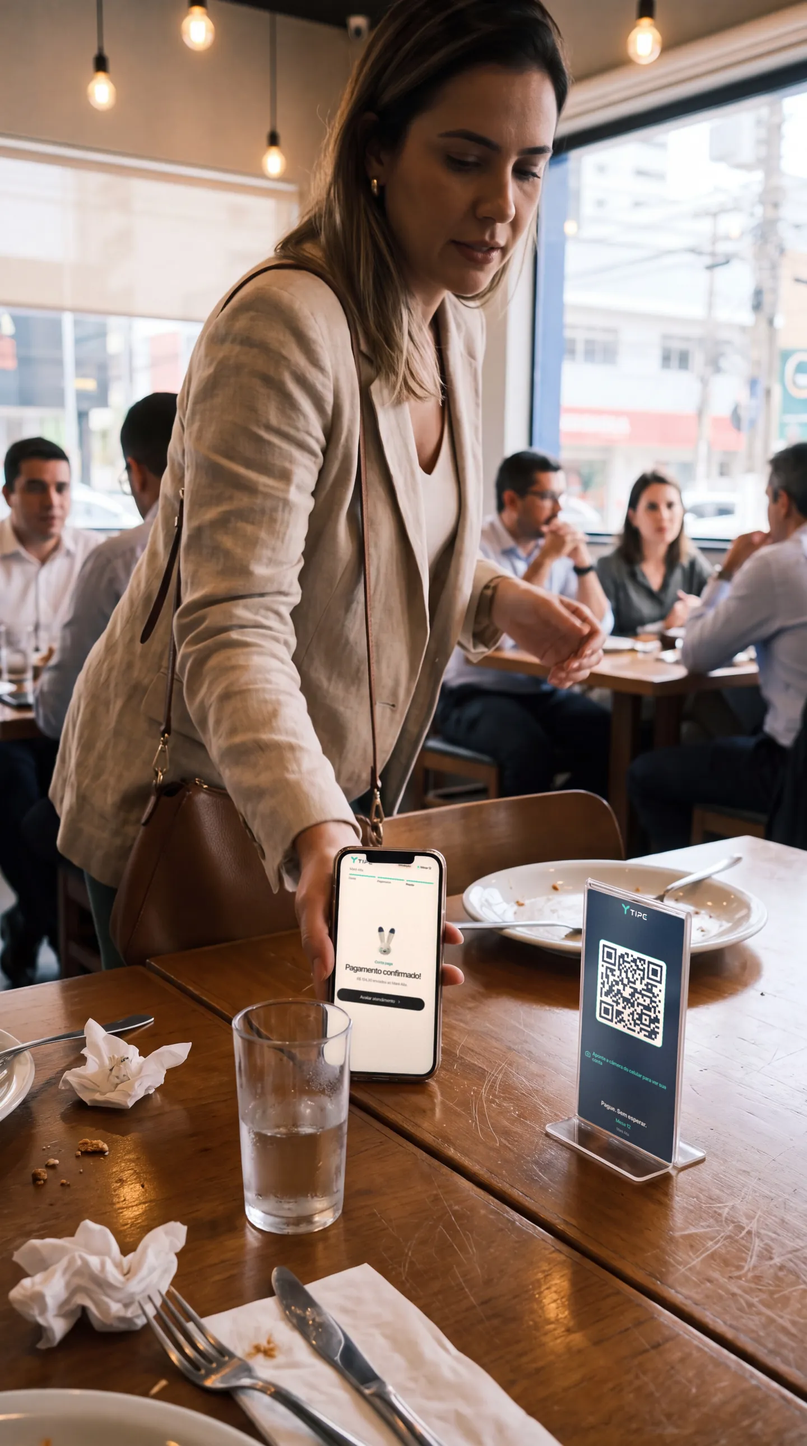
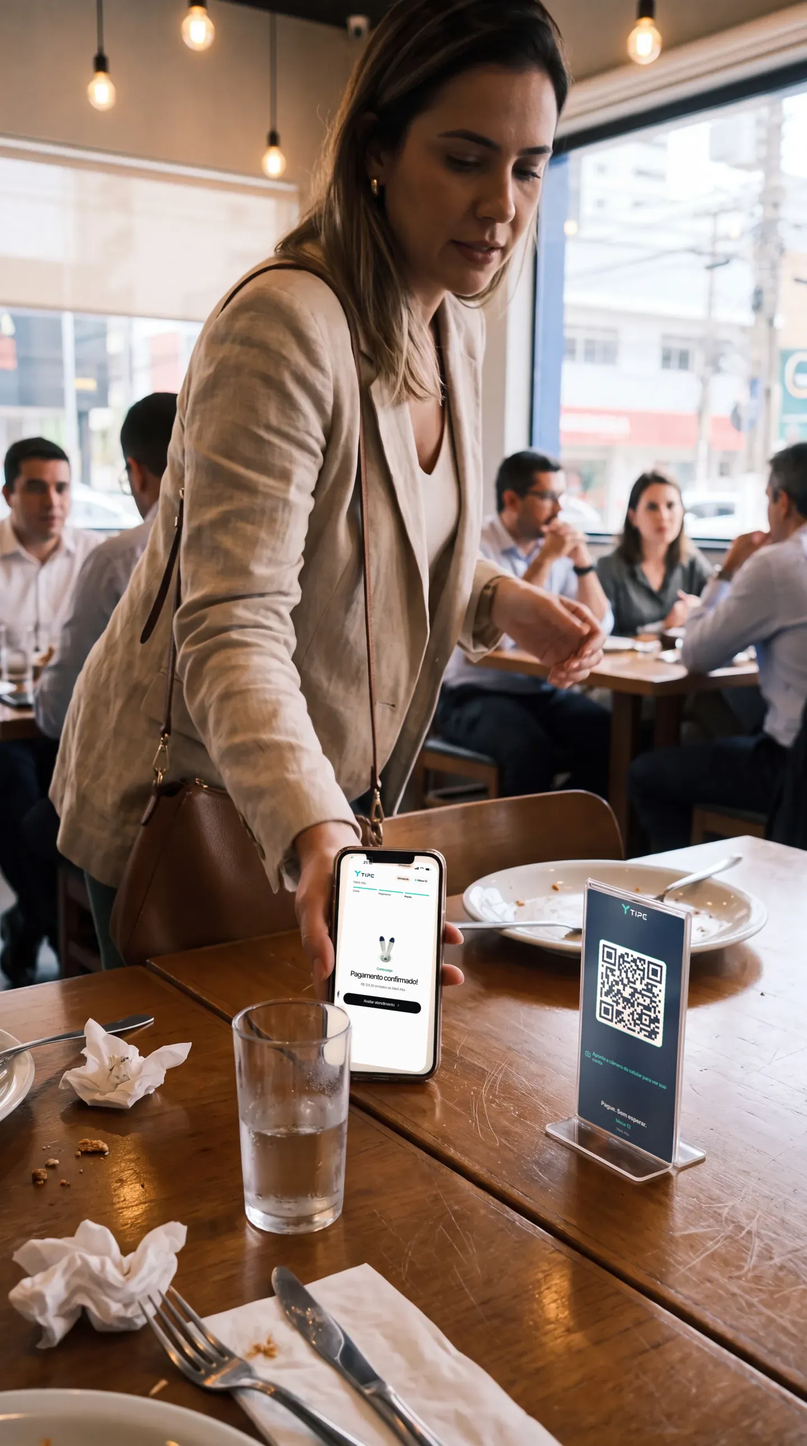
fix(design): barra de status nas fotos de cena e ícones proporcionais no Firefox
- Ícones de sinal, Wi-Fi e bateria com largura e altura explícitas (Firefox
  esticava o SVG e desenhava os glifos gigantes)
- Telas das fotos de cena recompostas no vidro com barra de status real
  (hora, sinal, Wi-Fi, bateria) e notch; dedos e copo ficam por cima
- Foto da Camila (casal-larga) com a tela alinhada ao vidro
- Foto do amigos sem 'Dividir igualmente' (conta por itens, decisão 11/11)
- gorjeta-mao ganha os glifos da barra nas laterais do notch

Claude-Session: https://claude.ai/code/session_014qa42yrWkEqKe5BUCbgtA7

Changed region(s): [[0.4062, 0.5891, 0.5625, 0.7442]]

diff --git a/src/components/tipe/BarraStatusIOS.tsx b/src/components/tipe/BarraStatusIOS.tsx
@@ -74,6 +74,11 @@ export function BarraStatusIOS({
   );
 }
 
+/** Tamanho fixo em em (largura e altura explícitas: o Firefox não deduz a largura de um SVG só com altura). */
+function tam(h: number, proporcao: number): CSSProperties {
+  return { height: `${h}em`, width: `${h * proporcao}em`, flex: "none", display: "block" };
+}
+
 /** Só os ícones (sinal, Wi-Fi, bateria), para quem já tem a própria faixa. */
 export function IconesStatus({
   bateria = 82,
@@ -87,20 +92,20 @@ export function IconesStatus({
   return (
     <>
       {/* Sinal de celular: 4 barras */}
-      <svg viewBox="0 0 18 12" className="h-[0.7em] w-auto" fill={cor}>
+      <svg viewBox="0 0 18 12" width="18" height="12" style={tam(0.7, 18 / 12)} fill={cor}>
         <rect x="0" y="7.6" width="3.2" height="4.4" rx="1" />
         <rect x="4.9" y="5.2" width="3.2" height="6.8" rx="1" />
         <rect x="9.8" y="2.6" width="3.2" height="9.4" rx="1" />
         <rect x="14.7" y="0" width="3.2" height="12" rx="1" />
       </svg>
       {/* Wi-Fi: três faixas em leque */}
-      <svg viewBox="0 0 17 12.4" className="h-[0.72em] w-auto" fill={cor}>
+      <svg viewBox="0 0 17 12.4" width="17" height="12.4" style={tam(0.72, 17 / 12.4)} fill={cor}>
         <path d="M8.5 2.55c2.36 0 4.5.9 6.13 2.4l1.23-1.27A10.6 10.6 0 0 0 8.5.8a10.6 10.6 0 0 0-7.36 2.88l1.23 1.27A8.8 8.8 0 0 1 8.5 2.55Z" />
         <path d="M8.5 6.08c1.4 0 2.67.53 3.63 1.4l1.23-1.27A7 7 0 0 0 8.5 4.33a7 7 0 0 0-4.86 1.88l1.23 1.27a5.3 5.3 0 0 1 3.63-1.4Z" />
         <path d="M8.5 7.83c.92 0 1.76.33 2.4.88L8.5 11.2 6.1 8.7c.64-.54 1.48-.87 2.4-.87Z" />
       </svg>
       {/* Bateria com o nível (preenchimento proporcional + número, como no iOS) */}
-      <svg viewBox="0 0 28 13" className="h-[0.78em] w-auto">
+      <svg viewBox="0 0 28 13" width="28" height="13" style={tam(0.78, 28 / 13)}>
         <rect
           x="0.5"
           y="0.5"
